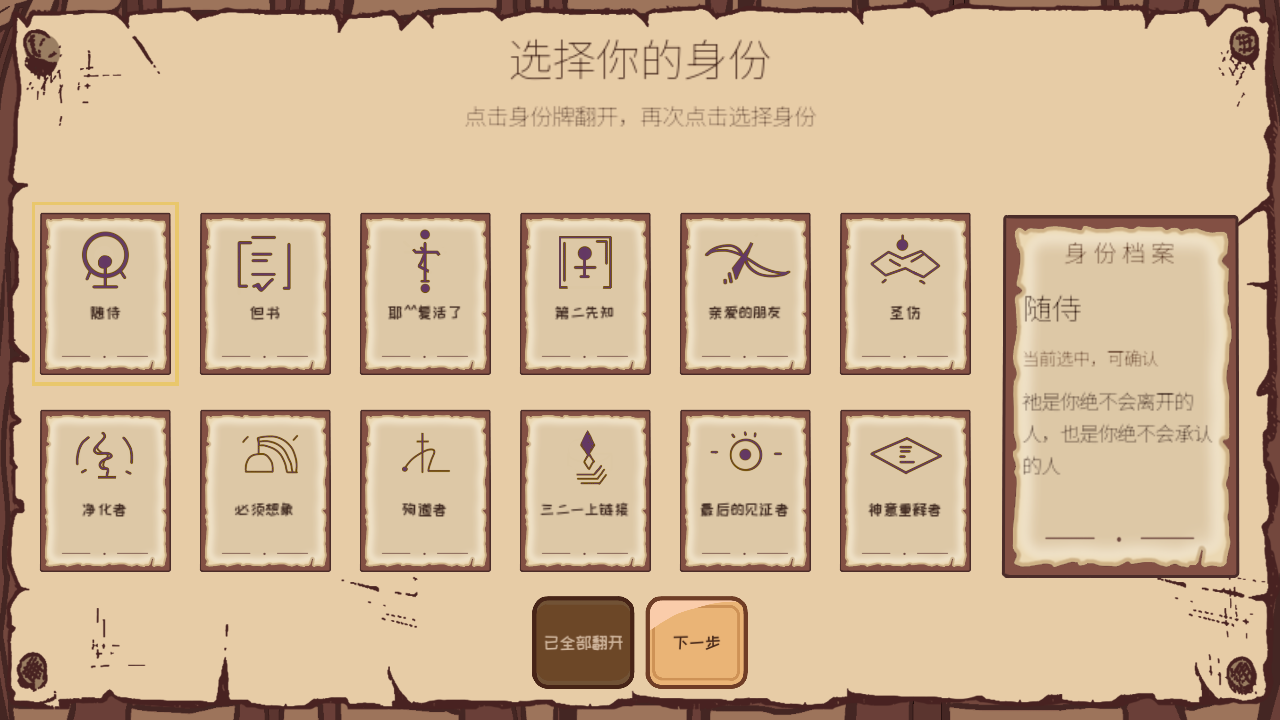
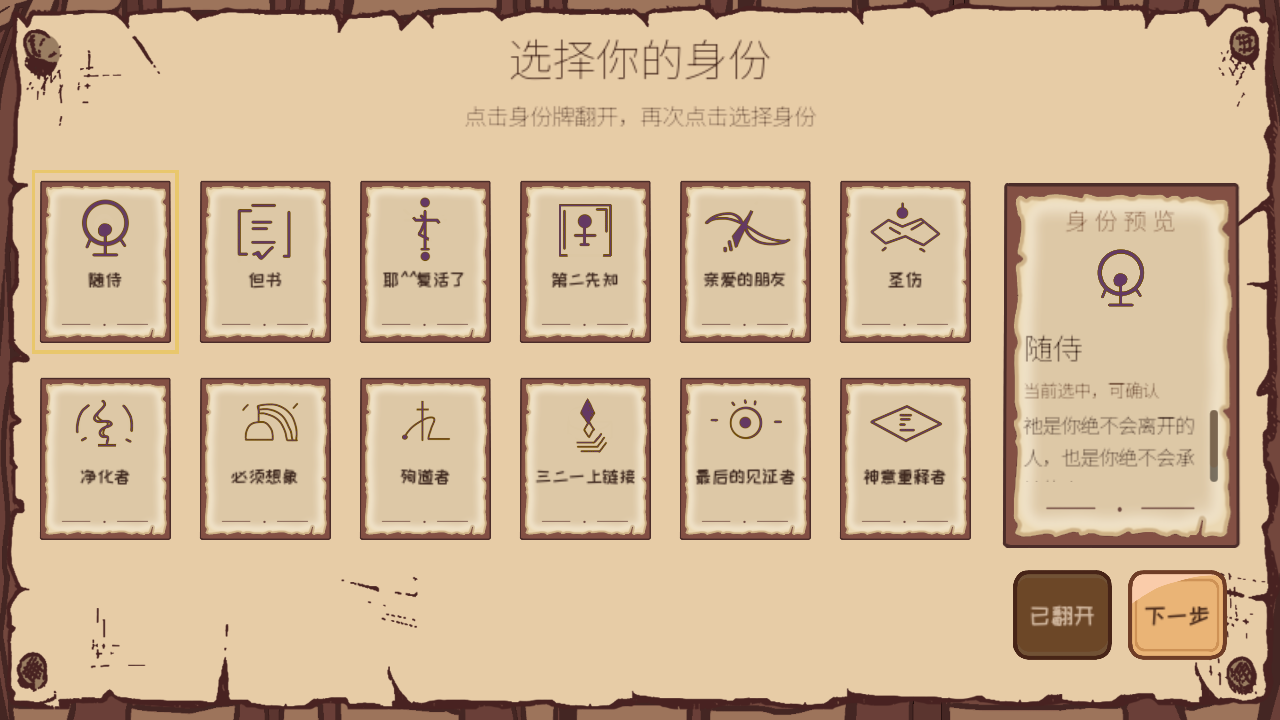
fix(identity): add selection preview, contextual actions and safe text scrolling

Changed region(s): [[0.0312, 0.2139, 0.9688, 0.9167], [0.4062, 0.825, 0.5938, 0.9778]]

diff --git a/docs/1. Identify/身份系统_ID-16-VISUAL-FIX_2026-10-20_log.md b/docs/1. Identify/身份系统_ID-16-VISUAL-FIX_2026-10-20_log.md
@@ -1,28 +1,24 @@
-# 身份系统 ID-16-VISUAL-FIX · 2026-10-20（二次视觉返工）
+# ID-16-VISUAL-FIX · 身份选择界面第三版（2026-10-20）
 
-## 基线与提交范围
-- 从已合并 #325 的 `main` 建立 PR #327，分支 `fix/id16-identity-parchment-ui-20261020`，本次继续在同一分支调整。
-- 唯一运行文件：`ui/identity_setup/identity_selection.gd`、`ui/identity_setup/identity_selection.tscn`。未改身份业务配置、其他 Agent 的工作树和保存逻辑。
+## 基线与范围
+- PR #327；原始基线：已合并 PR #325 的 main，独立 D 盘工作树。
+- 只改身份选择界面的场景、脚本、符号遮罩着色器与本文件；IdentityOptions、身份确认/存档接口原样保留。
+- 前两版的 6×2 卡牌、正式羊皮纸背景、主次按钮素材和空白卡牌素材继续复用。
 
-## 第一版已具备
-- 资源直接引用：`assets/ui/buttons/button_primary.png` / `button_secondary.png`、`assets/ui/identity/cards/identity_card_front_00_blank.png`。
-- 羊皮纸背景的暗色遮罩 0.68 → 0.06；移除卡背冗余叠字；翻牌前身份详情隐藏真实身份；保留 6×2 同屏卡、焦点和单选语义。
-- 在 1280×720、1920×1080 根据可用宽度约束卡片尺寸，避免布局溢出。
+## 第三版视觉重组
+1. 右侧作为身份预览：当前预览卡牌的原始符号从正式 identity_card_front_XX 图提取，叠到空白卡牌底板。Shader 透明化纸面底色，保留符号线稿。
+2. 右侧详情纸下方集中两个小按钮：全部翻开/下一步。二者使用仓库主次按钮美术保持原图纵横比，取消居中悬浮于底边的孤立按钮区。
+3. 右侧预览与左侧第一排顶端对齐，1280×720 与 1920×1080 采用不同的字号间距、按钮尺寸及卡牌区域上下留白；提升所选身份与 12 卡阵列的主次关系。
+4. 增设可滚动的描述容器。窄屏长文案留在详情纸内部滚动，避免越过边框和装饰横线。
+5. 键盘焦点采用深棕边框，正式选中才用金色边框；翻牌前显示问号和“尚未揭示”，避免提前剧透。
 
-## 二次视觉返工
-1. 主内容整体下移：标题引导后添加约 50px 的空间，将两排卡及右侧档案作为单独视觉组合，减轻过度顶边与底部留白。
-2. 取消身份卡下缘外贴的纯色标题条：名称用真实深棕色、`ZCOOLKuaiLe` 字体写到空卡片纸面内，与原素材底边装饰保留独立间距。
-3. 主、次按钮分别使用素材的有效像素裁切，并按源图约 1.09:1 比例整体缩放至 154×140；取消原先横向九宫格扁平拉伸，保持默认、悬停、按下、禁用状态和相应文字对比。
-4. 右侧延用空白卡牌素材，内容明确命名为「身份档案」；依据正式内容区可用高度自适应详情板长度（最高 620px），令其跨越两排卡牌，避免像第 13 张卡片。
-5. 提升顶部标题字号至 44、引导至 22，右侧身份名称字号 30、状态 17；版面只在既有场景中改变。
-
-## 验证
-- Godot `4.7.2.stable.steam` Windows OpenGL 3 实际运行两档：1280×720、1920×1080；截图均来自正式 `IdentitySelection` 节点实例（非人工合成）。
-- `identity_1280x720_back.png`：未翻开 12 卡、主次按钮。
-- `identity_1280x720_selected.png`：全翻开并选中第一个身份。
-- `identity_1920x1080_selected.png`：完整大分辨率布局，右侧说明、纸面卡名和底部导航无裁切。
-- `tests/_id16_visual_workflow_check_tmp.gd` 是本地短期验证脚本，不提交仓库。执行回执：`ID16_VISUAL_REWORK_FUNCTION_PASS 12 cards / flip / select / confirm state / reveal-all`。
-- 范围仅 UI：未测试完整跨页身份建立、存档、Android 触控；保留 PR Draft 等待真人美术验收。
-
-## 交接
-代码与三张真正 Godot 截图均在 PR #327。该 PR 为视觉候选，不由自动化截图数替代策划的通过判定。
+## Godot 运行验收
+- Godot 4.7.2.stable.steam Windows OpenGL 3；场景 IdentitySelection；两档 1280×720、1920×1080 均实际运行。
+- 三张真实截图：
+  - evidence/ID-16-VISUAL-FIX_2026-10-20/identity_1280x720_back.png
+  - evidence/ID-16-VISUAL-FIX_2026-10-20/identity_1280x720_selected.png
+  - evidence/ID-16-VISUAL-FIX_2026-10-20/identity_1920x1080_selected.png
+- 两档截图记录 ID16_SCREENSHOT_UNREVEALED status=0、ID16_SCREENSHOT_SELECTED status=0。
+- 本地临时 GDScript 实测 ID16_VISUAL_REWORK_FUNCTION_PASS 12 cards / flip / select / next / reveal-all / long-description-scroll。
+- 截图与短期测试脚本在本地 D 盘工作树生成，PR 仅附三张真实截图；未携带 Godot 自动生成的 import 改动。
+- 完整游戏开局流程、手机触控尚未验收；本 PR 维持 Draft 等待用户对第三版视觉效果做最终判断。
